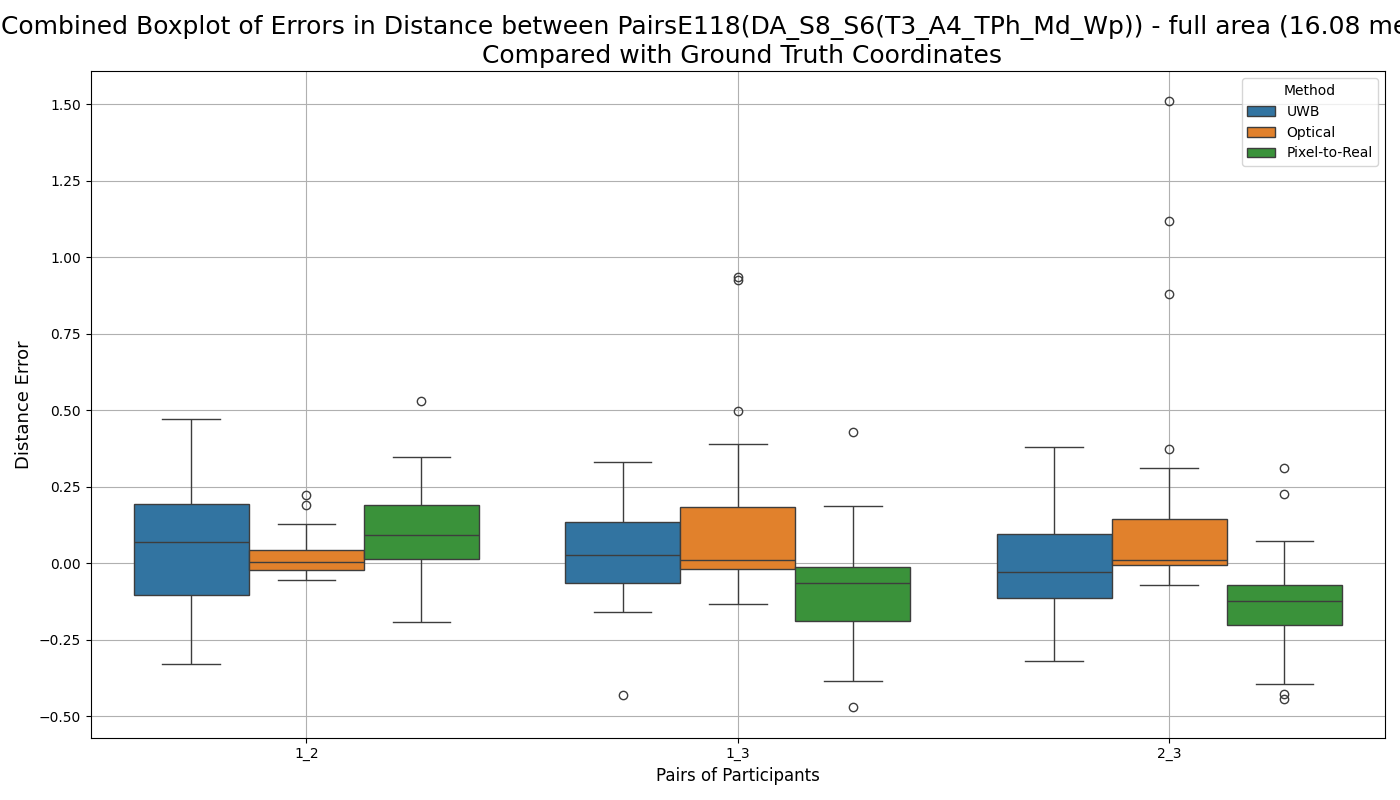
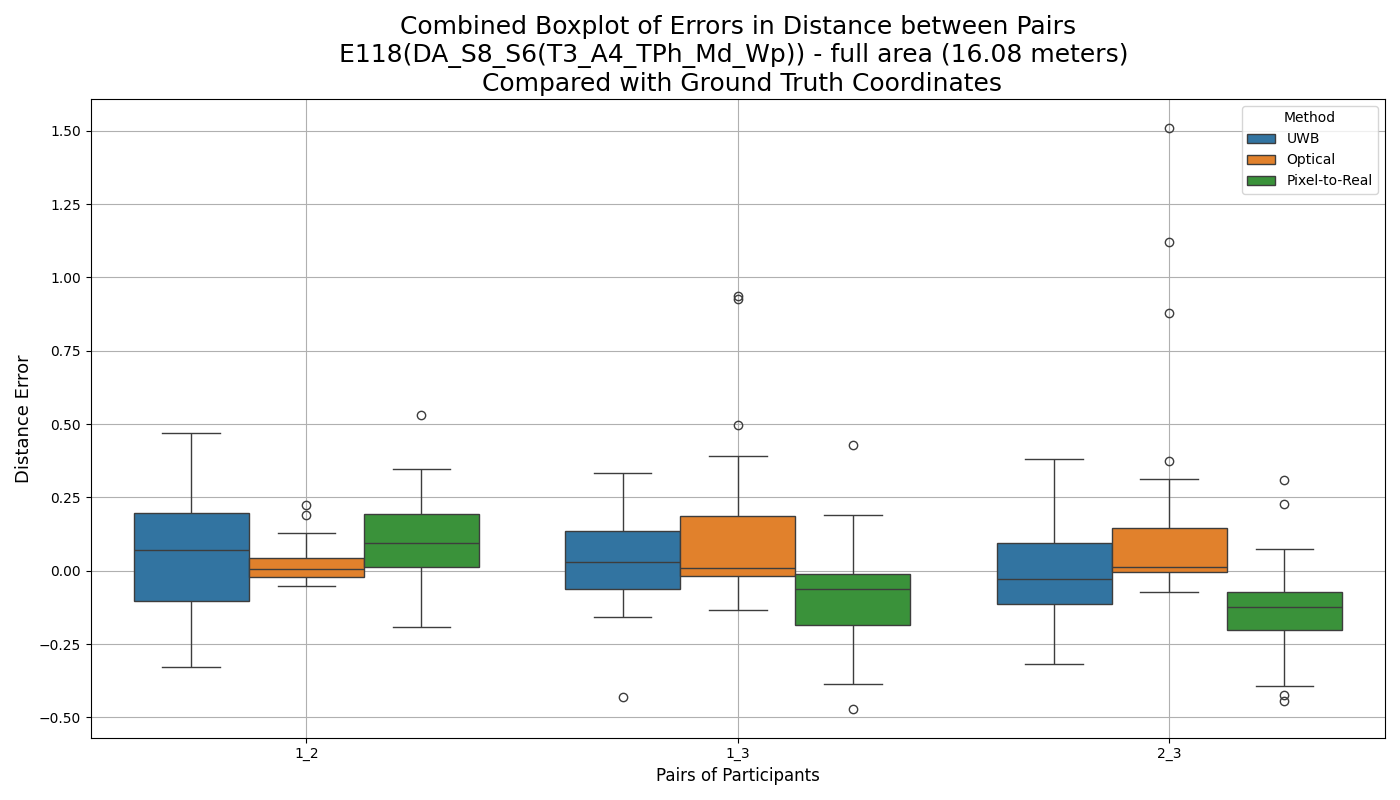
update names in distance between people diagrams

diff --git a/Data for analysis/Data for comparison/evaluation_of_distances_between_people.py b/Data for analysis/Data for comparison/evaluation_of_distances_between_people.py
@@ -75,7 +75,7 @@ def plotStatistics(errorsByPair, statsSummary, method, titleSuffix, folderToSave
         
         plt.figure(figsize=(12, 6))
         sns.boxplot(data=errorsDf, y='Error')
-        plt.title(f'Boxplot of Errors in Distance Between Pair {pairStr} \n {method} method {titleSuffix}', fontsize=18)
+        plt.title(f'Boxplot of Errors in Distance Between Pair {pairStr}. {method} method \n {titleSuffix}', fontsize=18)
         plt.ylabel('Distance Error', fontsize=13)
         plt.xlabel('Pairs of Participants', fontsize=12)
         plt.grid(True)
@@ -106,7 +106,7 @@ def aggregateErrorsForPlotting(errorsByPair, method, experiment):
 def plotCombinedBoxplots(aggregatedErrors, title, titleSuffix, folderToSave):
     plt.figure(figsize=(14, 8))
     sns.boxplot(x='Pair', y='Error', hue='Method', data=aggregatedErrors)
-    plt.title(title + titleSuffix, fontsize=18)
+    plt.title(title + "\n" + titleSuffix, fontsize=18)
     plt.ylabel('Distance Error', fontsize=13)
     plt.xlabel('Pairs of Participants', fontsize=12)
     plt.legend(title='Method')
@@ -123,7 +123,7 @@ def plotTrend(errorsByPair, frames, method, titleSuffix, folderToSave):
         
         plt.figure(figsize=(14, 6))
         plt.plot(frames, errorsDf['Error'])
-        plt.title(f'Error Trend Over Time in Distance Between Pair {pairStr} \n {method} method {titleSuffix}', fontsize=18)
+        plt.title(f'Error Trend Over Time in Distance Between Pair {pairStr}. {method} method \n {titleSuffix}', fontsize=18)
         plt.xlabel('Frame', fontsize=13)
         plt.ylabel('Distance Error', fontsize=13)
         plt.grid(True)
